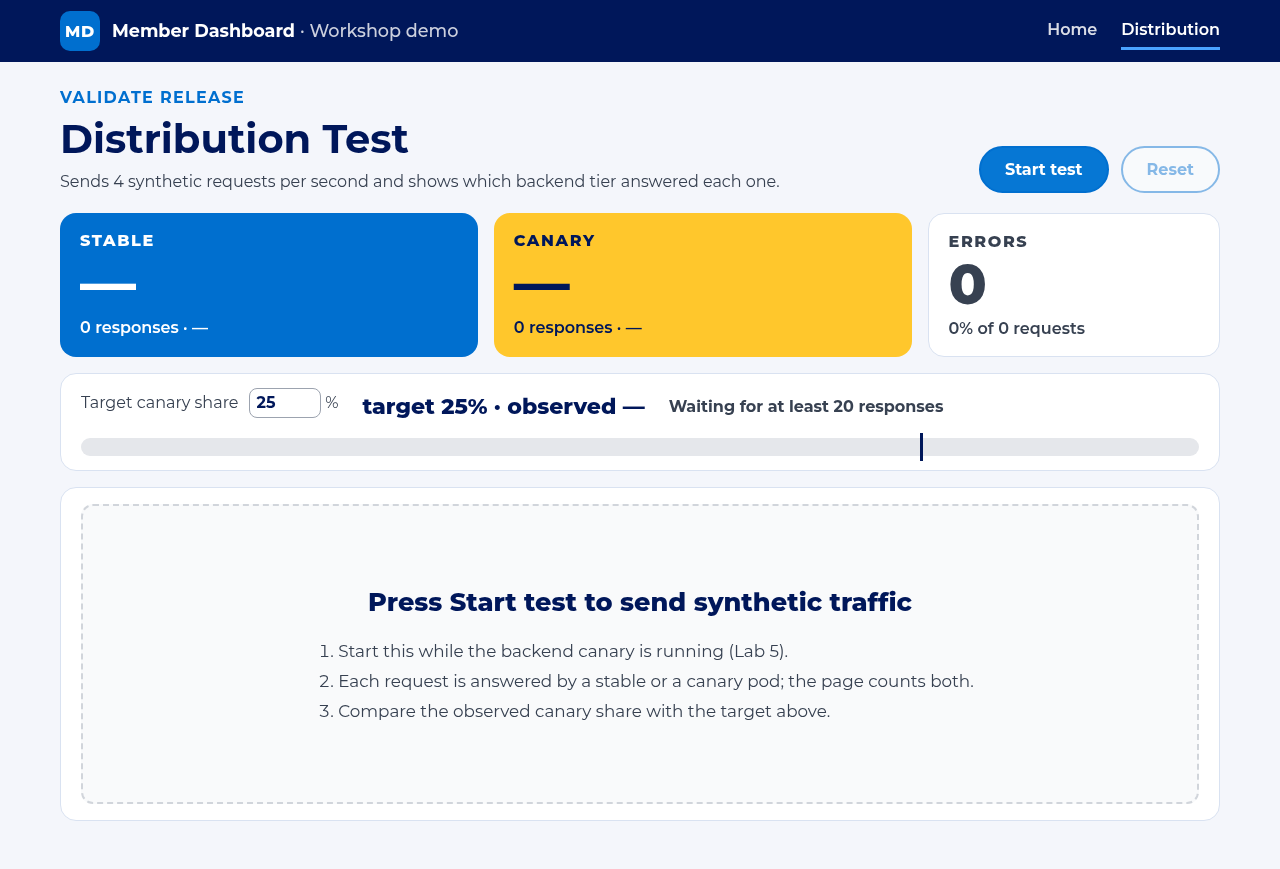
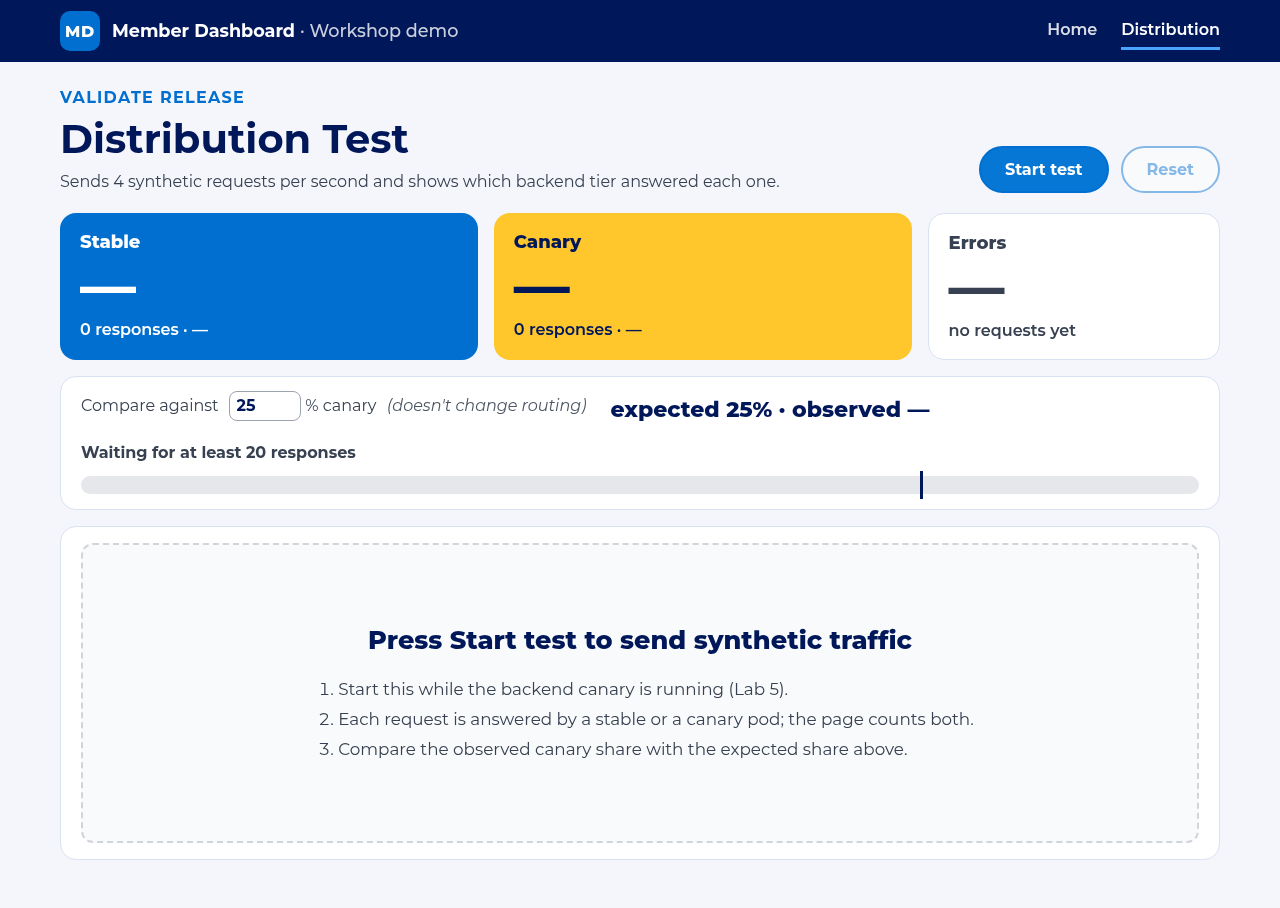
feat(app): second design critique round
Home: drop the release pill, status word as a chip in the strip (red for
rolling back, green for healthy), canary card back to navy with a yellow
stripe/tag, 18px smoke-test line. Distribution: 'Compare against' with a
'doesn't change routing' hint, chart leaves out the still-filling bucket,
Errors card shows '—' when empty and turns red on errors, flat squares for
latest responses, Stable/Canary/Errors casing everywhere.

diff --git a/frontend-app/harness-webapp/src/app/distribution/distribution.component.html b/frontend-app/harness-webapp/src/app/distribution/distribution.component.html
@@ -28,24 +28,25 @@
     </div>
     <div class="total total--errors" [class.total--errors-active]="summary.errors > 0">
       <span class="total__label">Errors</span>
-      <span class="total__pct">{{ summary.errors }}</span>
-      <span class="total__meta">{{ summary.errorPct }}% of {{ summary.total }} requests</span>
+      <span class="total__pct">{{ summary.total ? summary.errors : '—' }}</span>
+      <span class="total__meta">{{ summary.total ? summary.errorPct + '% of ' + summary.total + ' requests' : 'no requests yet' }}</span>
     </div>
   </section>
 
   <section class="split" [attr.data-verdict]="verdict">
     <label class="split__target">
-      Target canary share
-      <input type="number" min="0" max="100" [(ngModel)]="expectedCanaryPct" aria-label="Target canary share in percent" /> %
+      Compare against
+      <input type="number" min="0" max="100" [(ngModel)]="expectedCanaryPct" aria-label="Canary share to compare against, in percent" /> % canary
+      <span class="split__hint">(doesn't change routing)</span>
     </label>
     <span class="split__observed">
-      target {{ expectedCanaryPct }}% · observed {{ hasResponses ? summary.canaryPct + '%' : '—' }}
+      expected {{ expectedCanaryPct }}% · observed {{ hasResponses ? summary.canaryPct + '%' : '—' }}
     </span>
     <span class="split__verdict">
       @switch (verdict) {
         @case ('waiting') { Waiting for at least 20 responses }
-        @case ('on-target') { Within 5 points of target }
-        @case ('off-target') { More than 5 points off target }
+        @case ('on-target') { Within 5 points }
+        @case ('off-target') { More than 5 points off }
       }
     </span>
     <div class="split__bar" aria-hidden="true">
@@ -59,11 +60,14 @@
     @if (samples.length) {
       <div class="legend">
         @for (c of colors; track c.name) {
-          @if (c.name !== 'errors' || summary.errors > 0) {
+          @if (c.name !== 'Errors' || summary.errors > 0) {
             <span class="legend__item"><span class="legend__swatch" [style.background]="c.value"></span>{{ c.name }}</span>
           }
         }
       </div>
+      @if (!chartData.length) {
+        <p class="collecting">Collecting the first 5 seconds of traffic…</p>
+      }
       <div class="chart-wrap">
         <ngx-charts-bar-vertical-stacked
           [results]="chartData"
@@ -85,7 +89,7 @@
         <ol class="empty__steps">
           <li>Start this while the backend canary is running (Lab 5).</li>
           <li>Each request is answered by a stable or a canary pod; the page counts both.</li>
-          <li>Compare the observed canary share with the target above.</li>
+          <li>Compare the observed canary share with the expected share above.</li>
         </ol>
       </div>
     }
@@ -100,10 +104,11 @@
 
   @if (recent.length) {
     <section class="recent">
-      <h2>Latest responses</h2>
+      <h2>Latest responses <span class="recent__hint">newest first · hover for build</span></h2>
       <ul>
         @for (s of recent; track $index) {
-          <li class="chip chip--{{ s.tier }}">{{ s.tier }}@if (s.version) { · {{ build(s.version) }}}</li>
+          <li class="cell cell--{{ s.tier }}" [attr.title]="s.tier + (s.version ? ' · ' + build(s.version) : '')"
+              [attr.aria-label]="s.tier + (s.version ? ' ' + build(s.version) : '')"></li>
         }
       </ul>
     </section>

diff --git a/frontend-app/harness-webapp/src/app/home/home.component.css b/frontend-app/harness-webapp/src/app/home/home.component.css
@@ -8,13 +8,13 @@
 
 /* Always occupies the same height so the page doesn't jump when the smoke check returns. */
 .smoke-slot {
-  min-height: 52px;
+  min-height: 56px;
   display: flex;
   align-items: center;
   justify-content: center;
   gap: 0.6rem;
   padding: 0.6rem 1rem;
-  font-size: 1rem;
+  font-size: 1.125rem;
   font-weight: 600;
   background: #eef2f8;
   color: #4b5563;
@@ -70,40 +70,12 @@
   max-width: 40rem;
 }
 
-.release-badge {
-  min-width: 180px;
-  border-radius: 12px;
-  padding: 0.85rem 1.1rem;
-  text-align: center;
-  box-shadow: 0 8px 24px rgba(0, 23, 90, 0.14);
-}
-
-.release-badge--stable {
-  background: #006fcf;
-  color: #fff;
-}
-
-.release-badge--canary {
-  background: #ffc72c;
-  color: #00175a;
-}
-
-.release-badge__label {
-  display: block;
-  font-size: 0.95rem;
-  letter-spacing: 0.1em;
-  font-weight: 800;
-}
-
-.release-badge__version {
-  display: block;
-  font-size: 1.375rem;
-  font-weight: 700;
-  margin-top: 0.2rem;
-}
-
 .status-strip {
   width: 100%;
+  display: flex;
+  flex-wrap: wrap;
+  align-items: center;
+  gap: 0.6rem;
   border-radius: 12px;
   padding: 0.75rem 1.25rem;
   margin-bottom: 1.25rem;
@@ -145,10 +117,19 @@
   overflow: hidden;
 }
 
-/* Canary card: canary yellow with navy text (never yellow text on white). */
+/* Canary card stays navy; a yellow stripe marks it so the strip is the only big yellow block. */
 .card--plastic.card--canary {
-  background: linear-gradient(145deg, #ffc72c 0%, #ffd866 100%);
+  border-top: 10px solid #ffc72c;
+}
+
+.card--canary .card__brand::after {
+  content: 'CANARY';
+  margin-left: 0.6rem;
+  background: #ffc72c;
   color: #00175a;
+  border-radius: 6px;
+  padding: 0.1rem 0.45rem;
+  letter-spacing: 0.1em;
 }
 
 .card__chip {
@@ -157,10 +138,6 @@
   border-radius: 6px;
   background: linear-gradient(135deg, #d4af37, #f5e6a3);
   margin-bottom: 1.25rem;
-}
-
-.card--canary .card__chip {
-  box-shadow: inset 0 0 0 1.5px rgba(0, 23, 90, 0.45);
 }
 
 .card__brand {
@@ -318,3 +295,15 @@
   padding: 0.1rem 0.35rem;
   border-radius: 4px;
 }
+
+.state-chip {
+  display: inline-block;
+  border-radius: 999px;
+  padding: 0.1rem 0.85rem;
+  font-size: 1.5rem;
+  color: #fff;
+}
+
+.state-chip--ok { background: #0b7a3b; }
+.state-chip--bad { background: #b00020; }
+.state-chip--pending { background: #4b5563; }

diff --git a/frontend-app/harness-webapp/src/app/distribution/distribution.model.ts b/frontend-app/harness-webapp/src/app/distribution/distribution.model.ts
@@ -23,9 +23,9 @@ export interface Summary {
 }
 
 export const SERIES_COLORS: { name: string; value: string }[] = [
-  { name: 'stable', value: '#006fcf' },
-  { name: 'canary', value: '#FFC72C' },
-  { name: 'errors', value: '#c8102e' },
+  { name: 'Stable', value: '#006fcf' },
+  { name: 'Canary', value: '#FFC72C' },
+  { name: 'Errors', value: '#c8102e' },
 ];
 
 /** Backend answers /deploy/create with name 'canary' or 'normal' (= stable). */
@@ -62,11 +62,16 @@ function label(ms: number): string {
  * Group samples into fixed time buckets for a stacked bar chart
  * (ngx-charts multi-series format). Empty buckets inside the window are kept
  * so gaps in traffic are visible. Only the last `maxBuckets` are returned.
+ * The bucket that is still filling (ends after `now`) is left out so the last
+ * bar never looks like a traffic drop.
  */
-export function bucketise(samples: Sample[], bucketMs = 5_000, maxBuckets = 12) {
+export function bucketise(samples: Sample[], bucketMs = 5_000, maxBuckets = 12, now = Date.now()) {
   if (!samples.length) return [];
   const first = Math.floor(samples[0].t / bucketMs) * bucketMs;
-  const last = Math.floor(samples[samples.length - 1].t / bucketMs) * bucketMs;
+  const lastSample = Math.floor(samples[samples.length - 1].t / bucketMs) * bucketMs;
+  const lastComplete = Math.floor(now / bucketMs) * bucketMs - bucketMs;
+  const last = Math.min(lastSample, lastComplete);
+  if (last < first) return [];
   const start = Math.max(first, last - (maxBuckets - 1) * bucketMs);
   const buckets = new Map<number, { canary: number; stable: number; error: number }>();
   for (let b = start; b <= last; b += bucketMs) buckets.set(b, { canary: 0, stable: 0, error: 0 });
@@ -81,9 +86,9 @@ export function bucketise(samples: Sample[], bucketMs = 5_000, maxBuckets = 12) 
   return Array.from(buckets.entries()).map(([b, c]) => ({
     name: label(b),
     series: [
-      { name: 'stable', value: perSec(c.stable) },
-      { name: 'canary', value: perSec(c.canary) },
-      ...(withErrors ? [{ name: 'errors', value: perSec(c.error) }] : []),
+      { name: 'Stable', value: perSec(c.stable) },
+      { name: 'Canary', value: perSec(c.canary) },
+      ...(withErrors ? [{ name: 'Errors', value: perSec(c.error) }] : []),
     ],
   }));
 }

diff --git a/frontend-app/harness-webapp/src/app/distribution/distribution.component.spec.ts b/frontend-app/harness-webapp/src/app/distribution/distribution.component.spec.ts
@@ -28,6 +28,16 @@ describe('DistributionComponent', () => {
   it('shows an empty state with instructions before any traffic', () => {
     expect(el.querySelector('.empty__title')?.textContent).toContain('Press Start test');
     expect(el.querySelector('ngx-charts-bar-vertical-stacked')).toBeNull();
+    expect(el.querySelector('.total--errors .total__pct')?.textContent).toContain('—');
+    expect(el.querySelector('.split__target')?.textContent).toContain('Compare against');
+    expect(el.querySelector('.split__target')?.textContent).toContain("doesn't change routing");
+  });
+
+  it('turns the Errors card red once a request fails', () => {
+    component.record({ name: 'normal' });
+    component.record(null, true);
+    fixture.detectChanges();
+    expect(el.querySelector('.total--errors-active .total__pct')?.textContent).toContain('1');
   });
 
   it('has labelled Start test and Reset buttons', () => {
@@ -85,10 +95,17 @@ describe('distribution model', () => {
   });
 
   it('buckets into requests per second and keeps empty buckets', () => {
-    const data = bucketise([{ t: 0, tier: 'stable' }, { t: 0, tier: 'canary' }, { t: 12_000, tier: 'stable' }], 5000, 12);
+    const samples = [{ t: 0, tier: 'stable' as const }, { t: 0, tier: 'canary' as const }, { t: 12_000, tier: 'stable' as const }];
+    const data = bucketise(samples, 5000, 12, 16_000);
     expect(data.length).toBe(3);
-    expect(data[0].series.find((x: any) => x.name === 'stable')!.value).toBe(0.2);
+    expect(data[0].series.find((x: any) => x.name === 'Stable')!.value).toBe(0.2);
     expect(data[1].series.every((x: any) => x.value === 0)).toBeTrue();
+  });
+
+  it('leaves out the bucket that is still filling', () => {
+    const samples = [{ t: 0, tier: 'stable' as const }, { t: 12_000, tier: 'canary' as const }];
+    expect(bucketise(samples, 5000, 12, 12_500).length).toBe(2);
+    expect(bucketise([{ t: 1000, tier: 'stable' as const }], 5000, 12, 2000).length).toBe(0);
   });
 
   it('labels builds and judges the split', () => {

diff --git a/frontend-app/harness-webapp/src/app/home/home.component.spec.ts b/frontend-app/harness-webapp/src/app/home/home.component.spec.ts
@@ -32,7 +32,9 @@ describe('HomeComponent', () => {
   it('shows a stable, healthy release without the word "normal"', () => {
     const fixture = setup({ canary: false, ordersFail: false });
     const el: HTMLElement = fixture.nativeElement;
-    expect(el.querySelector('.status-strip')?.textContent).toContain('STABLE · build-43 · Healthy');
+    expect(el.querySelector('.status-strip__label')?.textContent).toContain('STABLE · build-43');
+    expect(el.querySelector('.state-chip--ok')?.textContent).toContain('Healthy');
+    expect(el.querySelector('.release-badge')).toBeNull();
     expect(el.querySelector('.health')?.textContent).toContain('Healthy');
     expect(el.textContent).toContain('Harness execution #101');
     expect(el.textContent?.toLowerCase()).not.toContain('normal');
@@ -42,8 +44,8 @@ describe('HomeComponent', () => {
     const fixture = setup({ canary: true, ordersFail: true });
     const el: HTMLElement = fixture.nativeElement;
     expect(el.querySelector('.smoke-slot--failing')?.textContent).toContain('Smoke test failed');
-    expect(el.querySelector('.release-badge__label')?.textContent).toContain('CANARY · ROLLING BACK');
-    expect(el.querySelector('.status-strip')?.textContent).toContain('CANARY · build-43 · Rolling back');
+    expect(el.querySelector('.status-strip__label')?.textContent).toContain('CANARY · build-43');
+    expect(el.querySelector('.state-chip--bad')?.textContent).toContain('Rolling back');
     expect(el.querySelector('.health')?.textContent).toContain('Failing · smoke test');
     expect(el.querySelector('.health')?.classList).toContain('health--bad');
     expect(el.querySelector('.new-tag')?.textContent).toContain('New in build-43');

diff --git a/frontend-app/harness-webapp/src/app/distribution/distribution.component.css b/frontend-app/harness-webapp/src/app/distribution/distribution.component.css
@@ -89,10 +89,8 @@
 .total--errors-active { background: #c8102e; color: #fff; border-color: #c8102e; }
 
 .total__label {
-  font-size: 1rem;
+  font-size: 1.125rem;
   font-weight: 800;
-  text-transform: uppercase;
-  letter-spacing: 0.1em;
 }
 
 .total__pct {
@@ -129,6 +127,12 @@
   border: 1.5px solid #9ca3af;
   border-radius: 8px;
   padding: 0.15rem 0.4rem;
+}
+
+.split__hint {
+  margin-left: 0.4rem;
+  color: #4b5563;
+  font-style: italic;
 }
 
 .split__observed {
@@ -260,16 +264,33 @@
   gap: 0.4rem;
 }
 
-.chip {
+.recent__hint {
   font-size: 0.95rem;
-  font-weight: 700;
-  padding: 0.25rem 0.7rem;
-  border-radius: 999px;
+  font-weight: 500;
+  color: #4b5563;
+  margin-left: 0.5rem;
 }
 
-.chip--stable { background: #006fcf; color: #fff; }
-.chip--canary { background: #FFC72C; color: #00175a; }
-.chip--error { background: #c8102e; color: #fff; }
+.recent ul {
+  gap: 4px;
+}
+
+/* Flat squares, not buttons. */
+.cell {
+  width: 18px;
+  height: 18px;
+  border-radius: 3px;
+}
+
+.cell--stable { background: #006fcf; }
+.cell--canary { background: #FFC72C; }
+.cell--error { background: #c8102e; }
+
+.collecting {
+  font-size: 1rem;
+  color: #4b5563;
+  margin: 0.25rem 0 0;
+}
 
 @media (max-width: 760px) {
   .dist-header { flex-direction: column; align-items: flex-start; }

diff --git a/frontend-app/harness-webapp/src/app/home/home.component.html b/frontend-app/harness-webapp/src/app/home/home.component.html
@@ -19,14 +19,11 @@
       <h1>Member Dashboard</h1>
       <p class="subtitle">Release status and traffic checks for the workshop canary.</p>
     </div>
-    <div class="release-badge" [class.release-badge--canary]="isCanary" [class.release-badge--stable]="!isCanary">
-      <span class="release-badge__label">{{ isCanary ? (ordersDegraded ? 'CANARY · ROLLING BACK' : 'CANARY') : 'STABLE' }}</span>
-      <span class="release-badge__version">{{ buildName }}</span>
-    </div>
   </header>
 
   <div class="status-strip" [class.status-strip--canary]="isCanary" [class.status-strip--stable]="!isCanary">
-    {{ isCanary ? 'CANARY' : 'STABLE' }} · {{ buildName }} · {{ releaseState }}
+    <span class="status-strip__label">{{ isCanary ? 'CANARY' : 'STABLE' }} · {{ buildName }} ·</span>
+    <span class="state-chip state-chip--{{ healthLevel }}">{{ releaseState }}</span>
   </div>
 
   <div class="dashboard__grid">

diff --git a/frontend-app/harness-webapp/src/app/distribution/distribution.component.ts b/frontend-app/harness-webapp/src/app/distribution/distribution.component.ts
@@ -42,7 +42,7 @@ export class DistributionComponent implements OnDestroy {
   constructor(private apiService: ApiserviceService) {}
 
   get recent(): Sample[] {
-    return this.samples.slice(-14).reverse();
+    return this.samples.slice(-40).reverse();
   }
 
   get hasResponses(): boolean {

diff --git a/labs/05-validate-release.md b/labs/05-validate-release.md
@@ -16,7 +16,7 @@ In this lab, the user validates canary deployments by observing traffic distribu
 2. Open the **Distribution** tab (or click **Start Distribution Test** on the dashboard)
 3. Click **Start test** to send synthetic traffic. The page sends 4 requests per second for up to 10 minutes; **Stop test** and **Reset** are next to it
 4. Observe the traffic distribution between canary and stable instances: the **Stable** and **Canary** totals show each tier's share and build, and the chart shows requests per second over the last 60 seconds
-5. Set **Target canary share** to the split you expect. With the default Canary step (1 canary pod next to 3 stable pods) that is about 25%. The page says whether the observed share is within 5 points of the target. If every request fails, open the backend URL once in a new tab to accept its certificate, then start again
+5. Set **Compare against** to the canary share you expect. It is only a reference and doesn't change routing. With the default Canary step (1 canary pod next to 3 stable pods) that is about 25%. The page says whether the observed share is within 5 points of it. If every request fails, open the backend URL once in a new tab to accept its certificate, then start again
 
 ---
 

diff --git a/docs/app-redesign/README.md b/docs/app-redesign/README.md
@@ -6,7 +6,7 @@ Screenshots from the local dry run of the Member Dashboard workshop demo app.
 |---|---|
 | `home-stable-rewards.png` | Stable build, healthy, rewards tier from DB3 |
 | `home-canary-rollback-banner.png` | Canary build with `SMOKE_FAIL=1`: smoke test failed, rolling back |
-| `distribution.png` | Distribution Test after ~60s of simulated traffic with ~10% canary (target set to 10%) |
+| `distribution.png` | Distribution Test after ~60s of simulated traffic with ~10% canary ('Compare against' set to 10%) |
 | `distribution-empty.png` | Distribution Test before Start test is pressed |
 
 Colours: stable = brand blue `#006FCF`, canary = yellow `#FFC72C` with navy `#00175A` text; green/red are used only for health.
